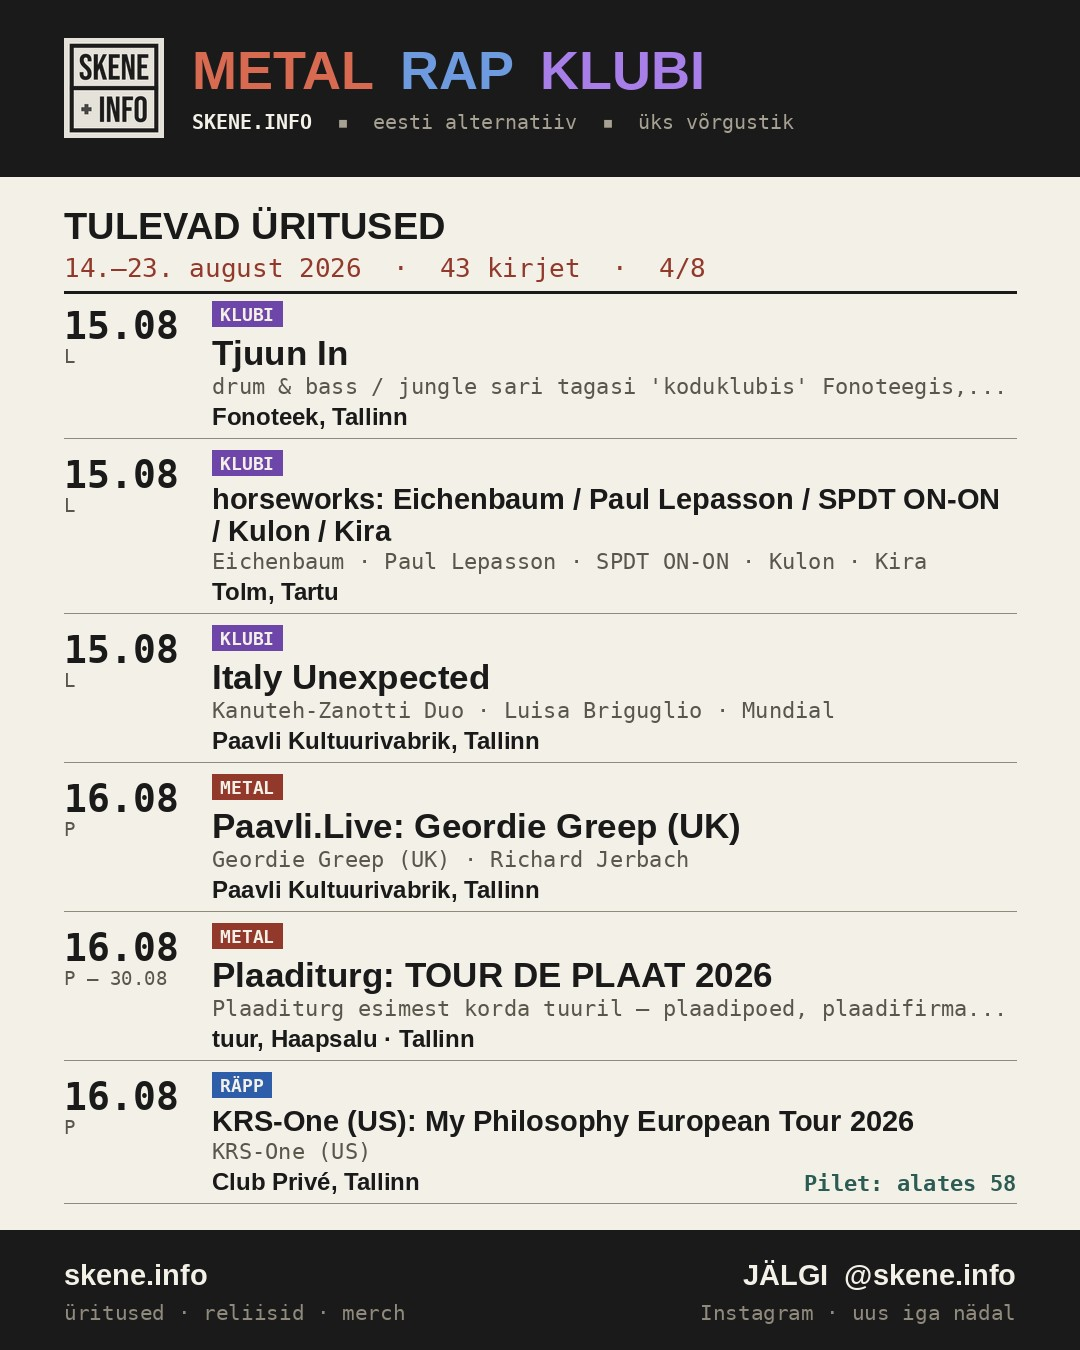
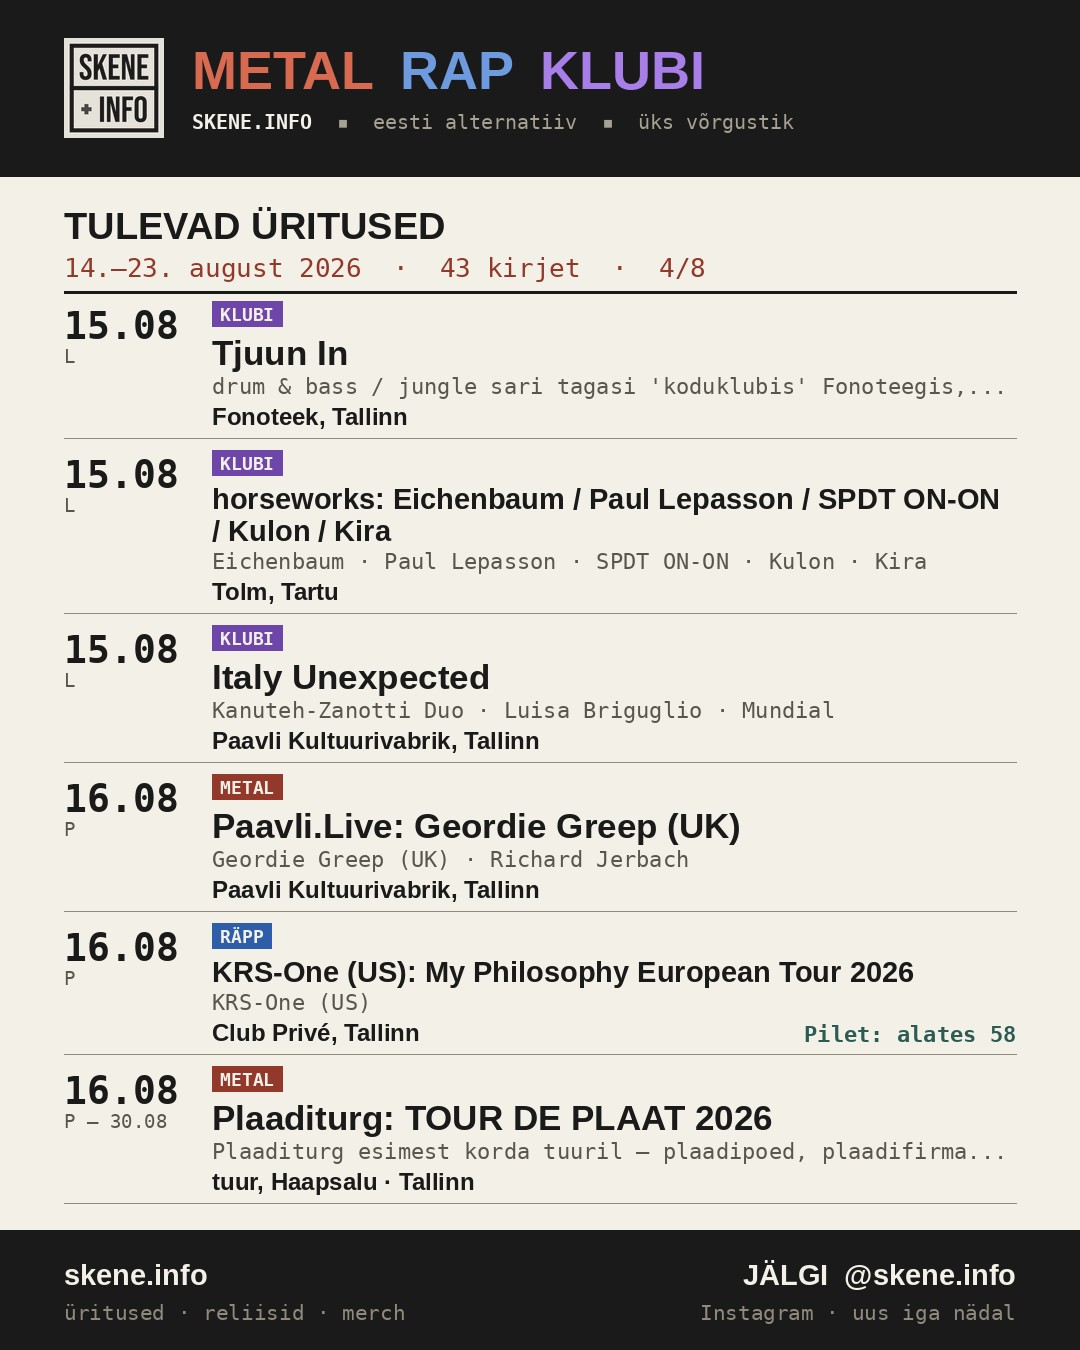
Tommyboy rap-poolele (Silveri otsus) + kategooriad labisegi sama paeva sees (interleave_cats) + nadalapilt/caption regen 2026-08-14

Changed region(s): [[0.0611, 0.6844, 0.9472, 0.9022], [0.0917, 0.7156, 0.1528, 0.7467], [0.9167, 0.8711, 0.9472, 0.9022]]

diff --git a/scripts/common.py b/scripts/common.py
@@ -267,4 +267,32 @@ def in_scope(e):
     28.07.2026-ni (leitud sweepis, vt HANDOVER sekts 3).
     """
     return e.get("c") in EESTI or is_release(e)
+def interleave_cats(entries):
+    """Sama (naidatava) kuupaeva sees jarjesta kategooriad LABISEGI (round-robin
+    metal -> rap -> klubi -> metal ...), et nimekirja algus annaks labiloike eri
+    tuupi uritustest. Eeldab, et sisend on juba sorditud (_disp/d, CAT_ORDER, t),
+    nii et iga kategooria sisemine jarjekord sailib. Silveri soov 14.08.2026:
+    varem olid sama paeva kirjed plokkidena metal->rap->klubi ja nimekirja algus
+    oli uhekulgne."""
+    out = []
+    _key = lambda e: e.get("_disp") or e.get("d", "")
+    i = 0
+    n = len(entries)
+    while i < n:
+        j = i
+        while j < n and _key(entries[j]) == _key(entries[i]):
+            j += 1
+        grp = entries[i:j]
+        buckets = {}
+        for e in grp:
+            buckets.setdefault(e.get("_cat", "metal"), []).append(e)
+        order = [c for c in CAT_ORDER if c in buckets]
+        k = 0
+        while any(buckets[c] for c in order):
+            c = order[k % len(order)]
+            if buckets[c]:
+                out.append(buckets[c].pop(0))
+            k += 1
+        i = j
+    return out
 # EOF

diff --git a/scripts/make_weekly_image.py b/scripts/make_weekly_image.py
@@ -32,7 +32,7 @@ except ImportError:
     sys.exit("Vajalik: pip install pillow")
 
 sys.path.insert(0, os.path.dirname(os.path.abspath(__file__)))
-from common import (EESTI, CAT_ORDER, parse_d, event_span, this_and_next_week,
+from common import (EESTI, CAT_ORDER, interleave_cats, parse_d, event_span, this_and_next_week,
                     in_window, today_local, in_scope, is_release, next_start)
 
 # ---- palett (index.html :root) ----
@@ -417,6 +417,7 @@ def main():
         e["_disp"] = next_start(e, ws)
     # sort NAIDATAVA kuupaeva jargi — sama reegel mis make_weekly_email.py-s
     sel.sort(key=lambda e: (e.get("_disp") or e.get("d", ""), CAT_ORDER.index(e.get("_cat", "metal")), e.get("t", "")))
+    sel = interleave_cats(sel)  # sama paeva kategooriad labisegi (Silver 14.08.2026)
 
     out = args.out or os.path.join(root, "postitused", f"nadal-{ws.isoformat()}.jpg")
     os.makedirs(os.path.dirname(out), exist_ok=True)

diff --git a/scripts/make_weekly_email.py b/scripts/make_weekly_email.py
@@ -19,7 +19,7 @@ import argparse, json, os, sys, html
 import urllib.request, urllib.error
 
 sys.path.insert(0, os.path.dirname(os.path.abspath(__file__)))
-from common import (EESTI, CAT_ORDER, parse_d, event_span, this_and_next_week,
+from common import (EESTI, CAT_ORDER, interleave_cats, parse_d, event_span, this_and_next_week,
                     in_window, today_local, in_scope, is_release, next_start)
 
 # ---- palett (index.html :root) ----
@@ -401,6 +401,7 @@ def gen_combo(all_ev, cats, ws, we, base):
     # sort NAIDATAVA kuupaeva jargi — kaimasolev tuur ei hyppa moodunud
     # alguskuupaevaga nimekirja etteotsa (13.08.2026 Silveri parandus)
     sel.sort(key=lambda e:(e.get("_disp") or e.get("d",""), CAT_ORDER.index(e.get("_cat","metal")), e.get("t","")))
+    sel = interleave_cats(sel)  # sama paeva kategooriad labisegi (Silver 14.08.2026)
     tag="+".join(cats)
     outs={}
     for lang in ("et","en"):

diff --git a/scripts/make_weekly_caption.py b/scripts/make_weekly_caption.py
@@ -26,7 +26,7 @@ import shutil
 import sys
 
 sys.path.insert(0, os.path.dirname(os.path.abspath(__file__)))
-from common import (CAT_ORDER, parse_d, this_and_next_week, in_window,
+from common import (CAT_ORDER, interleave_cats, parse_d, this_and_next_week, in_window,
                     today_local, in_scope, is_release, next_start)
 
 BASE_URL = "https://www.skene.info/nadal/"
@@ -59,6 +59,7 @@ def load_entries(repo, ws, we):
     out.sort(key=lambda e: (e.get("_disp") or e.get("d", ""),
                             CAT_ORDER.index(e.get("_cat", "metal")),
                             e.get("t", "")))
+    out = interleave_cats(out)  # sama paeva kategooriad labisegi (Silver 14.08.2026)
     return out
 
 
